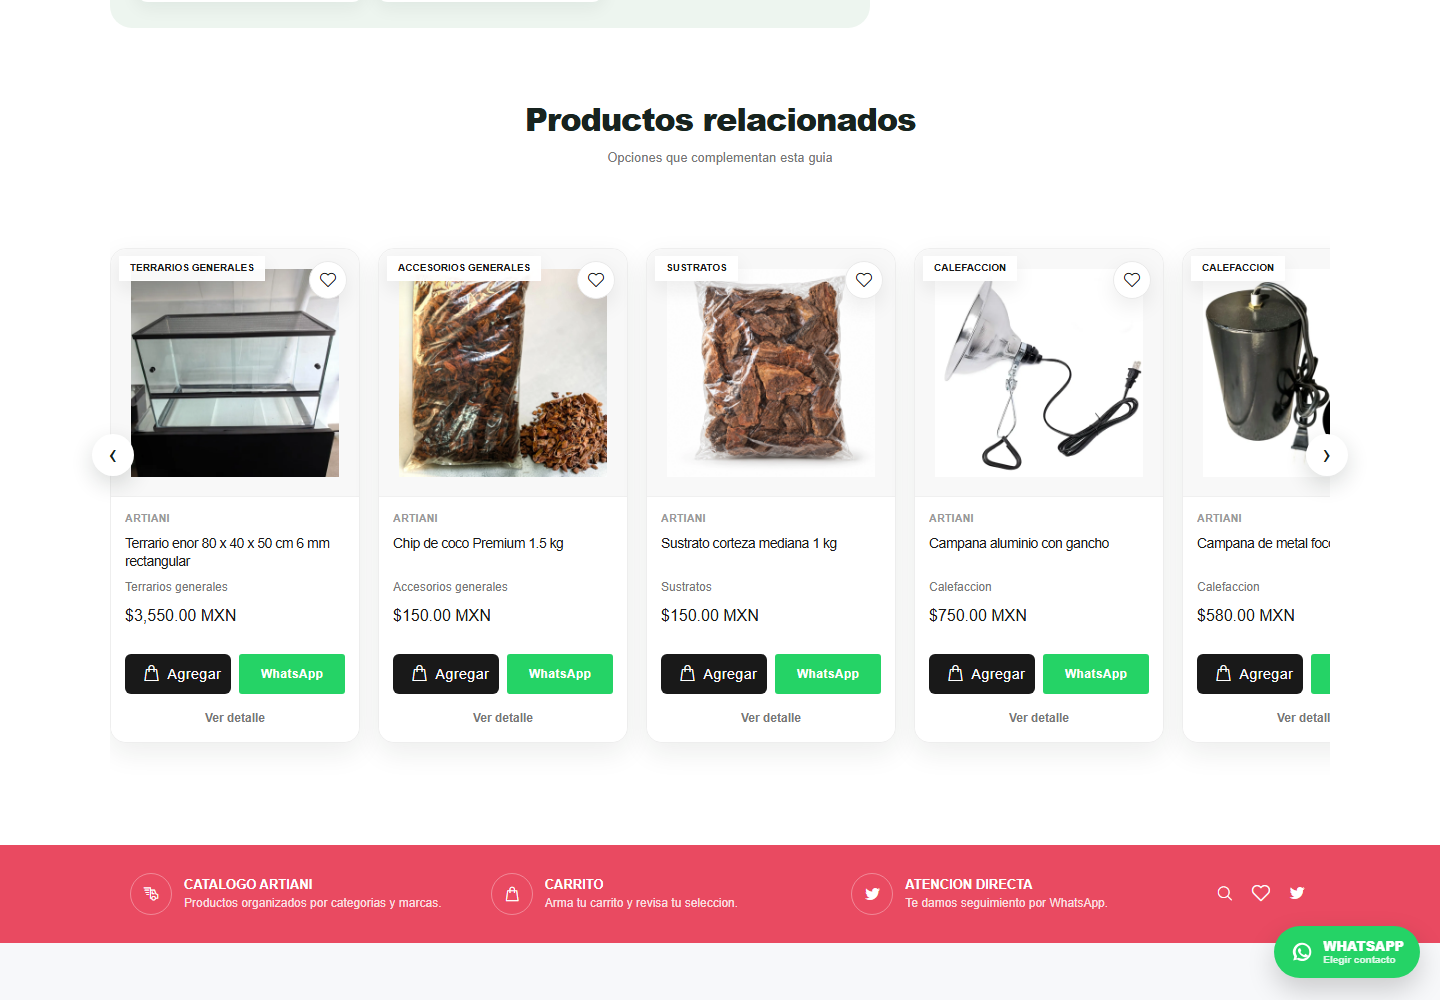
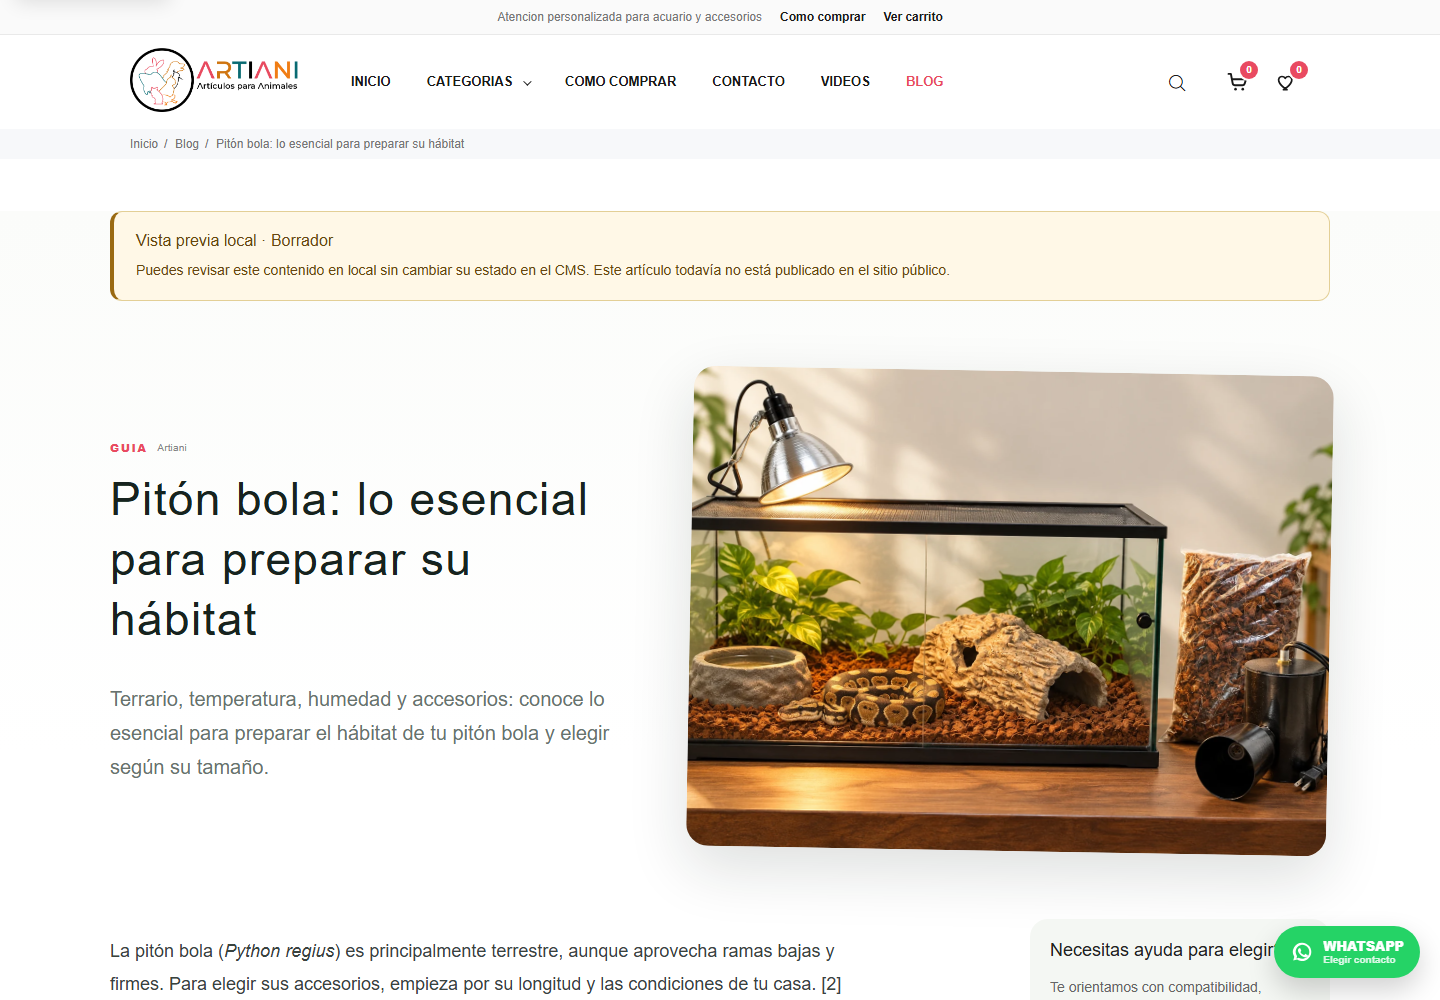
[WIP] imagenes blog piton bola

diff --git a/storage/uat/uat_blog_local_browser.js b/storage/uat/uat_blog_local_browser.js
@@ -25,6 +25,9 @@ const fs = require('node:fs');
       const r=await page.goto('http://artiani.com.local/blog/piton-bola-preparar-habitat',{waitUntil:'domcontentloaded',timeout:60000});
       assert.equal(r.status(),200);
       await page.locator('[data-blog-detail]').waitFor();
+      // IA: Codex GPT-6 | 2026-11-04. Distinguir revision local de publicacion real.
+      await page.locator('[data-blog-local-preview]').waitFor();
+      assert.match(await page.locator('[data-blog-local-preview]').innerText(),/Vista previa local · Borrador/);
       await page.locator('[data-blog-detail] img[src*="piton-bola"]').evaluateAll(async imgs=>{
         for(const img of imgs){img.loading='eager';if(!img.complete)await new Promise(resolve=>{img.addEventListener('load',resolve,{once:true});img.addEventListener('error',resolve,{once:true});});}
       });
@@ -52,8 +55,12 @@ const fs = require('node:fs');
       assert(loadedProducts.every(img=>img.loaded),'Imagenes de producto pendientes: '+JSON.stringify(loadedProducts.filter(img=>!img.loaded)));
       await page.locator('[data-blog-products]').screenshot({path:path.join(output,name+'-productos.png'),animations:'disabled'});
       const overflow=await page.evaluate(()=>document.documentElement.scrollWidth>innerWidth+2);
+      await page.evaluate(()=>scrollTo(0,0));
       await page.screenshot({path:path.join(output,name+'.png'),fullPage:false});
-      results.push({view:name,status:200,imagenes:images.length,imagenes_distintas:new Set(images.map(i=>i.src)).size,todas_cargadas:true,productos_reales:products.length,imagenes_producto_cargadas:loadedProducts.length,tarjetas_con_imagen_e_identidad:true,overflow});
+      const listado=await page.goto('http://artiani.com.local/blog',{waitUntil:'domcontentloaded',timeout:60000});
+      assert.equal(listado.status(),200);
+      assert.match(await page.locator('[data-blog-local-preview]').innerText(),/Vista previa local · Borrador/);
+      results.push({view:name,status:200,aviso_borrador_listado_y_detalle:true,imagenes:images.length,imagenes_distintas:new Set(images.map(i=>i.src)).size,todas_cargadas:true,productos_reales:products.length,imagenes_producto_cargadas:loadedProducts.length,tarjetas_con_imagen_e_identidad:true,overflow});
       await ctx.close();
     }
     console.log(JSON.stringify({ok:true,resultados:results,post_reales:0,output},null,2));

diff --git a/storage/uat/uat_frontend_blog_real_offline.php b/storage/uat/uat_frontend_blog_real_offline.php
@@ -5,6 +5,7 @@
 if (PHP_SAPI !== 'cli') exit;
 $root = 'C:/xampp/htdocs/frontend/ecommerce-publico';
 require $root . '/app/Config/env.php'; require $root . '/app/helpers.php'; require $root . '/app/Api/ErpEcommerceApi.php';
+require $root . '/app/Components/BlogCard.php';
 putenv('APP_ENV=production'); putenv('ERP_API_BASE_URL=http://api.test'); putenv('API_BASE_URL='); putenv('API_ASSET_BASE_URL=http://media.test'); putenv('APP_USE_FIXTURES=false'); putenv('ERP_API_CACHE_SECONDS=0');
 $_SERVER['HTTP_HOST'] = 'artiani.com.mx'; $_SERVER['REMOTE_ADDR'] = '127.0.0.1';
 $api = new ErpEcommerceApi();
@@ -22,4 +23,17 @@ $checks = array(
   'apoyos_host_media' => $p['imagenes'][0]['url'] === 'http://media.test/assets/media/cms/ecommerce/apoyo.webp',
   'bloque_host_media' => $p['bloques_interactivos'][0]['imagen']['url'] === 'http://media.test/assets/media/cms/ecommerce/escena.webp'
 );
+// IA: Codex GPT-6 | 2026-11-04. La etiqueta de preview no debe activarse por flags/URL fuera del transporte local.
+$preview = array('depurar' => array('preview_local' => true), '_meta_frontend' => array('source' => 'erp_preview_local'));
+ob_start(); blog_local_preview_notice($preview, array('estado' => 'borrador')); $productionNotice = ob_get_clean();
+$checks['produccion_sin_aviso_aun_con_flags'] = $productionNotice === '' && !blog_is_local_preview($preview);
+putenv('APP_ENV=local'); $_SERVER['HTTP_HOST'] = 'artiani.com.local';
+ob_start(); blog_local_preview_notice($preview, array('estado' => 'borrador')); $localNotice = ob_get_clean();
+$checks['local_muestra_estado_real'] = strpos($localNotice, 'Vista previa local · Borrador') !== false && strpos($localNotice, 'todavía no está publicado') !== false;
+$_GET['preview_local'] = '1';
+$checks['parametro_url_no_activa_preview'] = !blog_is_local_preview(array('depurar' => array('preview_local' => true)));
+$_SERVER['REMOTE_ADDR'] = '203.0.113.10';
+$checks['ip_externa_sin_aviso'] = !blog_is_local_preview($preview);
+$_SERVER['REMOTE_ADDR'] = '127.0.0.1'; $_SERVER['HTTP_HOST'] = 'artiani.com.mx';
+$checks['host_productivo_sin_aviso'] = !blog_is_local_preview($preview);
 echo json_encode(array('ok' => !in_array(false,$checks,true), 'checks' => $checks, 'red' => false, 'bd' => false), JSON_PRETTY_PRINT); exit(in_array(false,$checks,true) ? 1 : 0);

diff --git a/docs/erp_cms_blog_estado_actual.md b/docs/erp_cms_blog_estado_actual.md
@@ -146,6 +146,21 @@ Resultado 2026-09-28:
 
 ## Handoff
 
+### Aviso visible de borrador en frontend local / 2026-11-04
+
+- IA: Codex GPT-6. El dueño confirma necesidad de ver borradores localmente antes de publicarlos. Se aclara: endpoint privado local SI entrega el borrador habilitado; endpoint publico normal NO lo entrega. No confundir ambos contratos al comunicar avances.
+- Se agrega aviso «Vista previa local · Borrador» en listado/detalle del frontend (`BlogCard.php`, paginas blog/blog-detail y CSS). La etiqueta usa estado real y solo aparece con entorno/host/IP locales y respuesta del transporte privado. No cambia CMS ni acceso, ni expone clave, ni habilita preview por querystring.
+- Se conserva configuracion de revision privada ID1. No se publica en BD compartida por revisar frontend. Camaleon aun no esta registrado; habilitar su revision cuando corresponda. No afirmar que todos los borradores ya se muestran automaticamente.
+- Verificacion:12 checks offline de adaptador/aviso y7 controles GET del endpoint/estado, sin escrituras BD. QA local aislado escritorio/movil con POST bloqueados revisa aviso en listado/detalle y conserva tarjetas/imagenes.
+- Siguiente: dueño revisa articulo local con aviso. Sigue pendiente como tarea del editor CMS mostrar estado real y revisar guardado de publicados; no alterar ese flujo solo para resolver la vista previa. Despliegue/publicacion requieren el paso posterior indicado por el dueño.
+
+### Aclaracion de estado y revision local / 2026-11-04
+
+- IA: Codex GPT-6. El dueño pregunta por que ve piton en frontend aunque CMS indica borrador y el selector solo muestra borrador/pausado. Verificacion GET `uat_blog_preview_local_readonly.php`: ID1 conserva borrador, preview privado local permite revision y API publica normal no entrega ese borrador. No se publico por mostrarlo en artiani.com.local.
+- UI actual: `cms_blog_estado` es Estado de trabajo con borrador/pausado; Publicar es boton separado `cms_blog_publicar_btn` al final del formulario. El filtro/listado si conoce publicado. La interfaz no explica suficientemente esta distincion.
+- Pendiente UX confirmado por lectura: cargarItem mapea todo estado distinto de pausado a borrador y adminGuardar solo admite borrador/pausado. Un ajuste futuro debe mostrar estado real y revisar el flujo de edicion de publicados para evitar degradarlos accidentalmente al guardar. No resolver agregando solo una opcion publicado al select: el backend la normaliza a borrador y la accion de publicar tiene validaciones/permisos propios. Evaluar como tarea especifica, sin escrituras productivas para diagnosticar.
+- Siguiente: aclarar visualmente estado real, guardado y accion Publicar; indicar vista previa local en la revision. Despliegue/publicacion real siguen pendientes del flujo documentado y aprobacion del dueño.
+
 ### Encargo visual enviado a contenido / 2026-11-04
 
 - IA: Codex GPT-6. Autorizacion expresa del dueño para enviar informacion/fotos y medidas al chat existente `Estrategia y Produccion de Contenido…` (local,01a16c4f-e796-7690-b667-2f1268a4d00d). `send_message_to_thread` confirmado; snapshot posterior muestra turno en progreso. Se conserva modelo/configuracion del chat, sin crear otro.
